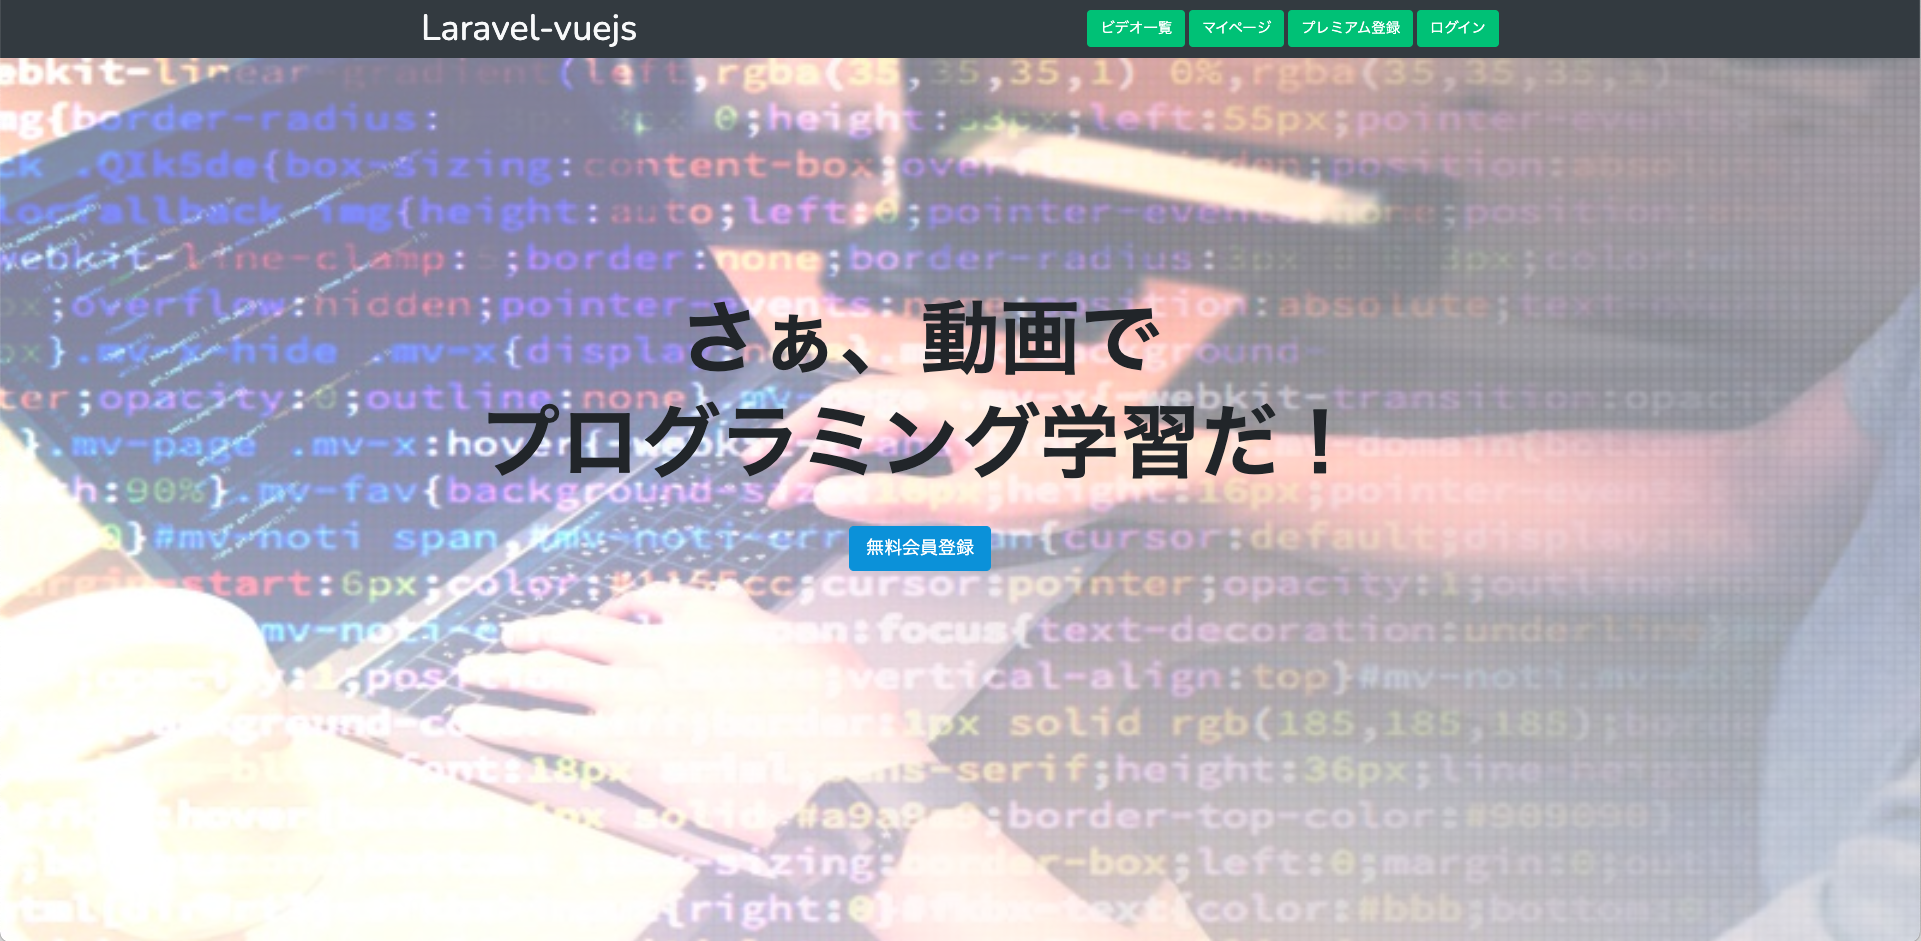
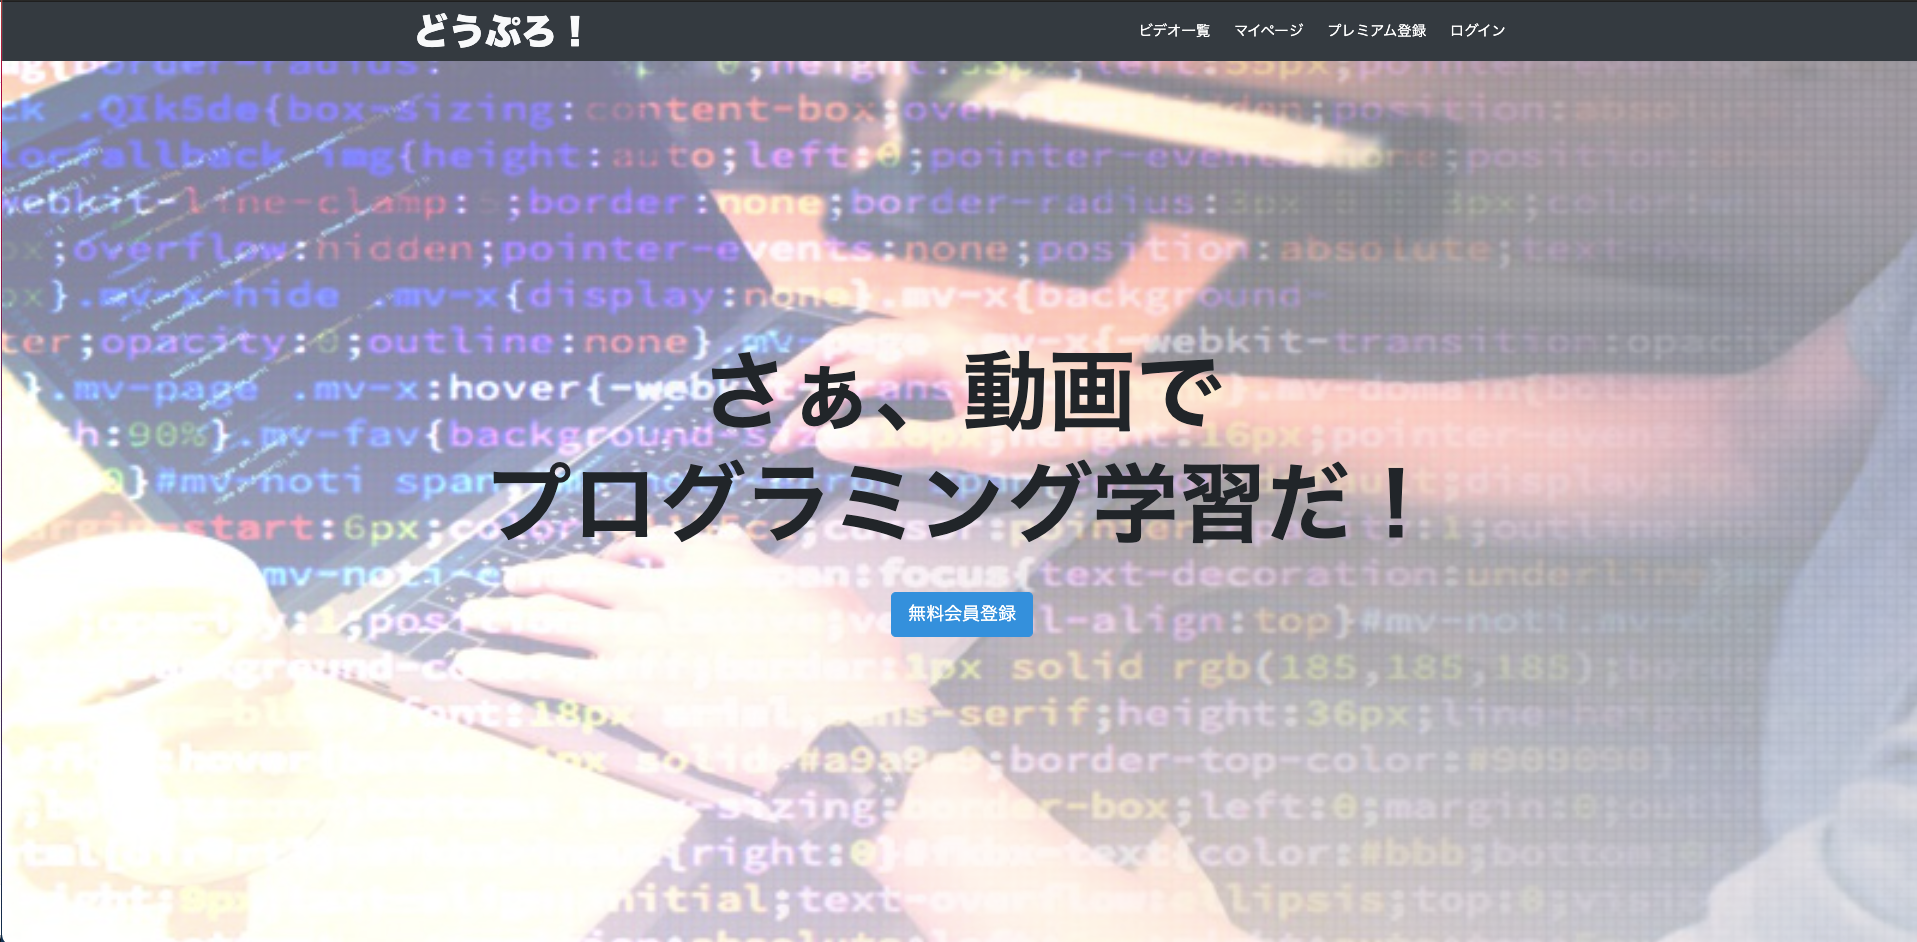
DEMO画像更新

diff --git a/README.md b/README.md
@@ -1,4 +1,4 @@
-## Laravel-Vuejs
+## どうプロ！
 <img src="./public/images/readme/top.png" width="800px">
 <br>
 <br>
@@ -117,8 +117,8 @@ SPAで作成したことです。
 <br>
 
 # 課題
-- レスポンシブデザイン
-- テスト(フロント部分の一部)
+- レスポンシブデザイン(対応中)
+- テスト(フロント部分の一部 対応中)
 - 課金機能
 <br>
 <br>
